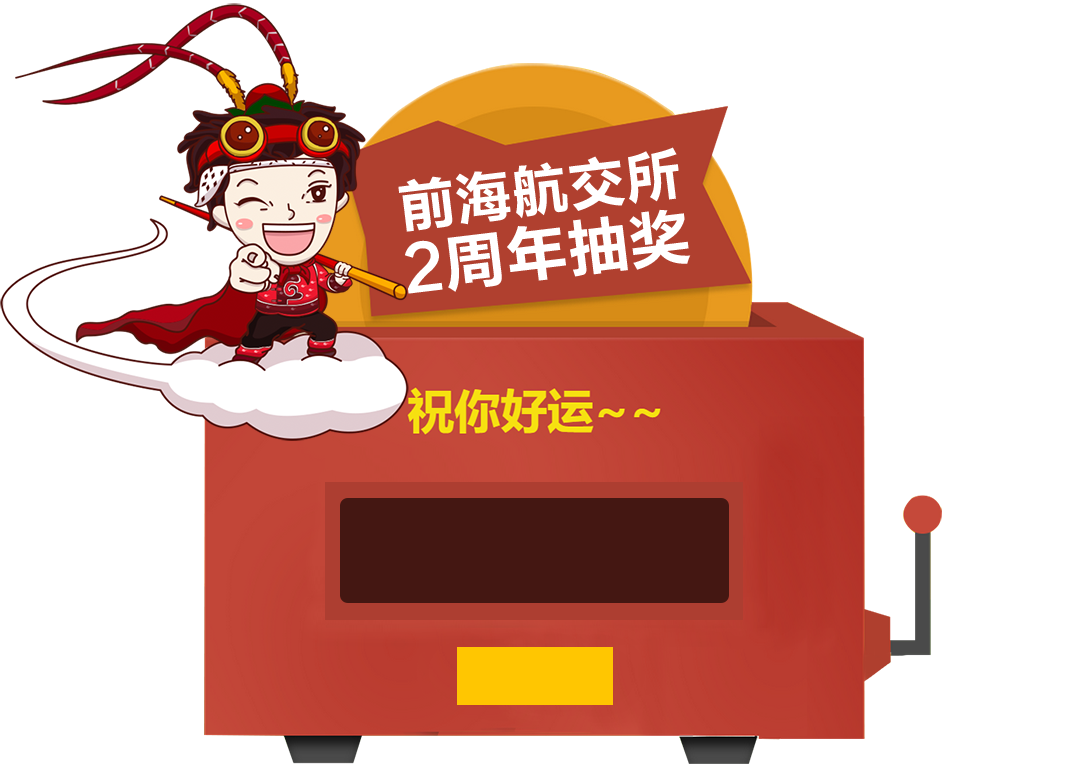
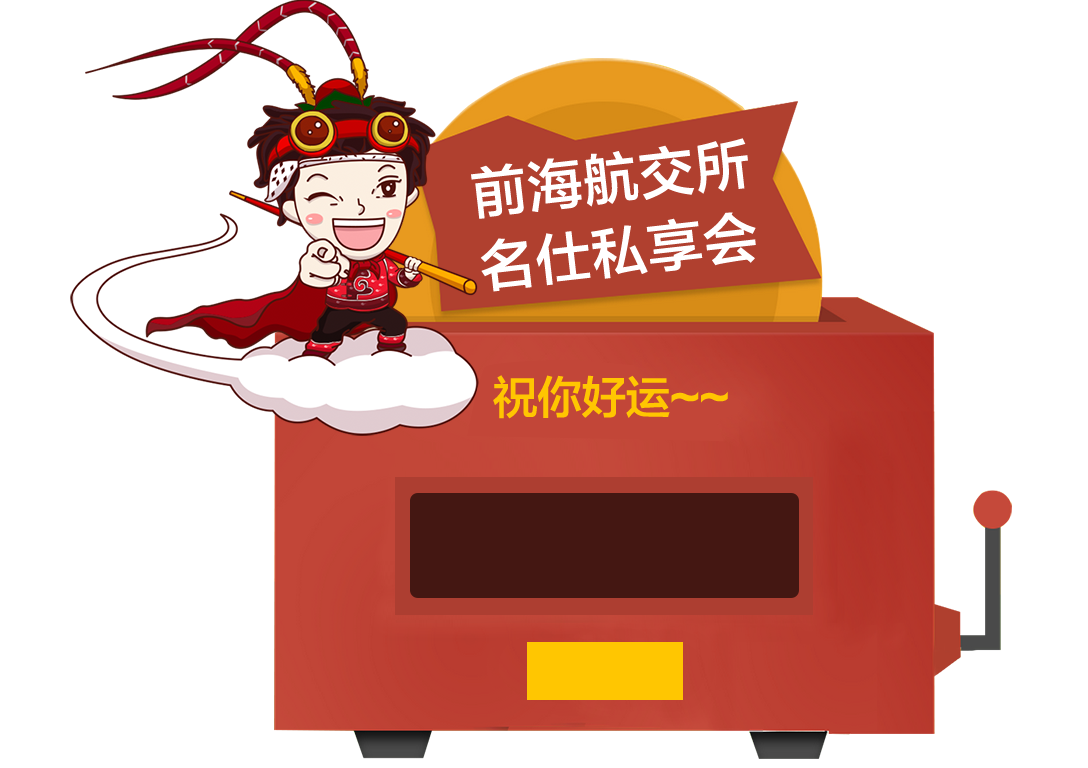
edit

Changed region(s): [[0.0, 0.0, 0.9375, 1.0]]

diff --git a/hangjiaosuo/css/style.css b/hangjiaosuo/css/style.css
@@ -25,7 +25,7 @@
 
 .aj-plane{
 	float:right;
-	display:block;
+	display:none;
 	width:376px;
 	height:205px;
 	margin:15px 30px 0 0;
@@ -40,7 +40,7 @@
 	display:block;
 	width:1088px;
 	height:768px;
-	margin:0 0 0 -544px;
+	margin:0 0 0 -597px;
 	font-size:0;
 	background:url(../png/content-bg.png) top center no-repeat;
 }
@@ -56,7 +56,7 @@
 	display:block;
 	width:384px;
 	height:110px;
-	margin:494px 0 0 342px;
+	margin:491px 0 0 413px;
 	overflow:hidden;
 }
 
@@ -88,7 +88,7 @@
 	display:block;
 	width:160px;
 	height:55px;
-	margin:42px 0 0 456px;
+	margin:40px 0 0 521px;
 	font:bold 30px/55px microsoft yahei;
 	text-align:center;
 	color:#b0402f;
